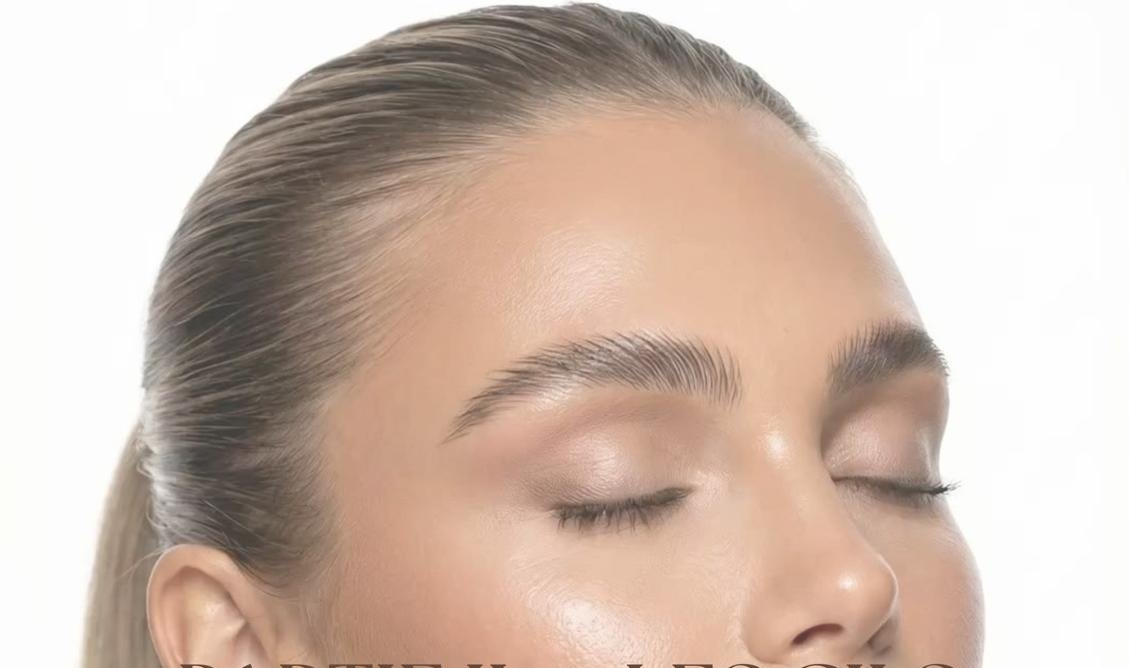
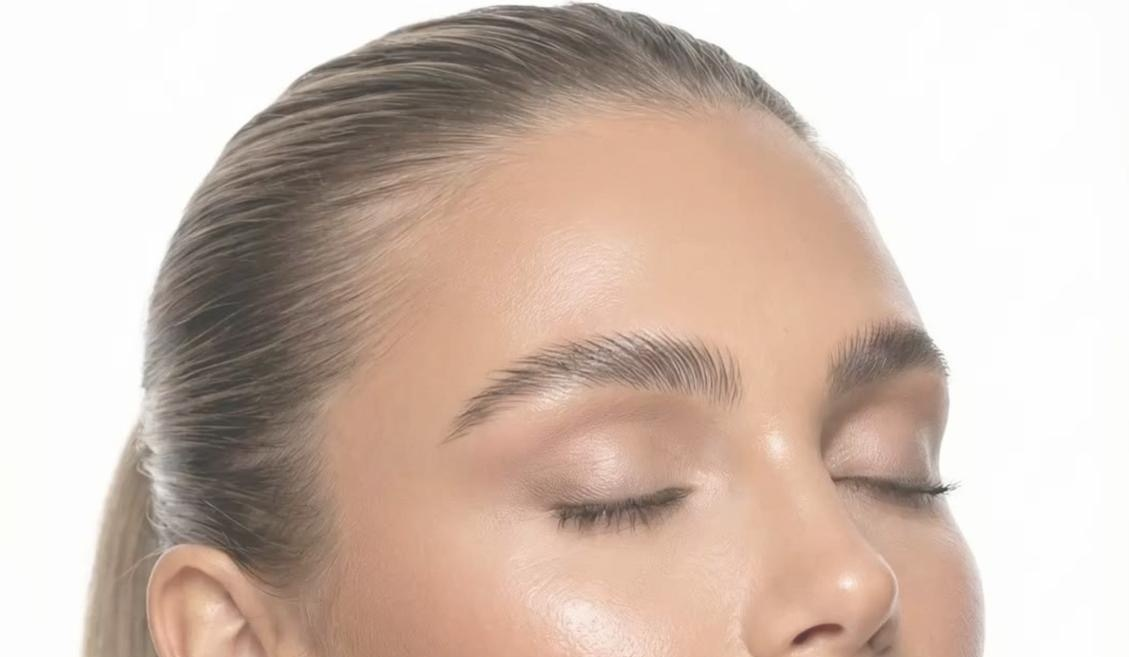
Sommaire et recadrage des portraits d'ouverture
Claude-Session: https://claude.ai/code/session_01RxScfj6N3DU6S5JvneTwhT

diff --git a/design/pages/020-sommaire.html b/design/pages/020-sommaire.html
@@ -1,0 +1,80 @@
+<style>
+  [data-id="sommaire"] .layout { position: absolute; inset: 0; display: grid; grid-template-columns: 96mm 1fr; }
+  [data-id="sommaire"] .side {
+    position: relative; background: var(--cream); padding: 30mm 12mm 16mm 20mm; overflow: hidden;
+  }
+  [data-id="sommaire"] .side .h-display { font-size: 36pt; margin: 6mm 0 6mm; }
+  [data-id="sommaire"] .side .lead { font-size: 14pt; max-width: 64mm; }
+  [data-id="sommaire"] .col > .part + .part { margin-top: 10mm; }
+  [data-id="sommaire"] .side .arch {
+    position: absolute; left: 20mm; bottom: 32mm; width: 58mm; height: 72mm;
+    border-radius: 29mm 29mm 0 0; overflow: hidden; background: var(--paper);
+  }
+  [data-id="sommaire"] .side .arch img { width: 100%; height: 100%; object-fit: cover; object-position: 58% 40%; }
+  [data-id="sommaire"] .side .logo { position: absolute; left: 20mm; bottom: 16mm; width: 46mm; opacity: .85; }
+  [data-id="sommaire"] .parts {
+    padding: 30mm 20mm 18mm 16mm; display: grid; grid-template-columns: 1fr 1fr; column-gap: 14mm;
+    align-content: start;
+  }
+  [data-id="sommaire"] .part-head {
+    display: flex; align-items: baseline; gap: 3mm; padding-bottom: 2.4mm; margin-bottom: 1.6mm;
+    border-bottom: .3mm solid var(--espresso);
+  }
+  [data-id="sommaire"] .part-head .roman {
+    font-family: var(--display); font-style: italic; font-size: 24pt; line-height: 1; color: var(--bordeaux);
+    min-width: 11mm;
+  }
+  [data-id="sommaire"] .part-head .name {
+    font-family: var(--display); font-size: 12.5pt; text-transform: uppercase; letter-spacing: .04em; color: var(--espresso);
+    flex: 1;
+  }
+  [data-id="sommaire"] .part-head .pg,
+  [data-id="sommaire"] .entry .pg {
+    font-family: var(--display); font-style: italic; font-size: 10pt; color: var(--bordeaux);
+  }
+  [data-id="sommaire"] .entry {
+    display: flex; align-items: baseline; gap: 2mm; padding: 2.1mm 0; font-size: 9.6pt; color: var(--ink);
+  }
+  [data-id="sommaire"] .entry .dots { flex: 1; border-bottom: .25mm dotted var(--taupe); transform: translateY(-1mm); }
+</style>
+<section class="page" data-id="sommaire">
+  <div class="layout">
+    <div class="side">
+      <div class="kicker">Support pédagogique</div>
+      <h2 class="h-display">Sommaire</h2>
+      <p class="lead">Parcours de formation : les sourcils, puis les cils et le développement professionnel</p>
+      <div class="arch"><img class="blend" src="assets/portrait-regard-haut-chaud.jpg" alt=""></div>
+      <img class="logo" src="assets/logo-dolce.png" alt="dolce lash &amp; brow">
+    </div>
+    <div class="parts">
+      <div class="col">
+      <div class="part">
+        <div class="part-head"><span class="roman">I.</span><span class="name">Sourcils</span><span class="pg">{{p:partie-1}}</span></div>
+        <div class="entry">Anatomie et cycle de vie du poil<span class="dots"></span><span class="pg">{{p:cycle}}</span></div>
+        <div class="entry">Pourquoi les sourcils tombent-ils&nbsp;?<span class="dots"></span><span class="pg">{{p:chute}}</span></div>
+        <div class="entry">Diagnostic et application en cabine<span class="dots"></span><span class="pg">{{p:diagnostic}}</span></div>
+        <div class="entry">Restructuration et mapping<span class="dots"></span><span class="pg">{{p:mapping}}</span></div>
+        <div class="entry">Brow Lift&nbsp;: technique et temps de pose<span class="dots"></span><span class="pg">{{p:browlift}}</span></div>
+        <div class="entry">Teinture hybride et décoloration<span class="dots"></span><span class="pg">{{p:teinture}}</span></div>
+        <div class="entry">Atelier visuel Brow Lift et sécurité<span class="dots"></span><span class="pg">{{p:atelier}}</span></div>
+      </div>
+      </div>
+      <div class="col">
+      <div class="part">
+        <div class="part-head"><span class="roman">II.</span><span class="name">Cils</span><span class="pg">{{p:partie-2}}</span></div>
+        <div class="entry">Diagnostic, rehaussement de cils, teinture et Lash Botox<span class="dots"></span><span class="pg">{{p:rehaussement}}</span></div>
+      </div>
+      <div class="part">
+        <div class="part-head"><span class="roman">III.</span><span class="name">Pratique professionnelle</span><span class="pg">{{p:partie-3}}</span></div>
+        <div class="entry">Fiches pratiques et suivi des clientes<span class="dots"></span><span class="pg">{{p:fiche-technique}}</span></div>
+        <div class="entry">Réseaux sociaux et communication<span class="dots"></span><span class="pg">{{p:reseaux}}</span></div>
+        <div class="entry">Gestion d’activité et fidélisation<span class="dots"></span><span class="pg">{{p:gestion}}</span></div>
+      </div>
+      <div class="part">
+        <div class="part-head"><span class="roman">IV.</span><span class="name">Évaluation</span><span class="pg">{{p:partie-4}}</span></div>
+        <div class="entry">Questionnaire de connaissances et références<span class="dots"></span><span class="pg">{{p:qcm}}</span></div>
+      </div>
+      </div>
+    </div>
+  </div>
+</section>

diff --git a/contenu/transcription/atelier-visuel-brow-lift.md b/contenu/transcription/atelier-visuel-brow-lift.md
@@ -2,13 +2,13 @@
 
 > en-tête/pied : pas d'en-tête ; pied de page en bas à gauche « DOLCE LASH & BROW  •  Support pédagogique » (gris-brun ≈ #6C6060, graisse normale, séparateur puce « • » entouré d'espaces), position approx. (6%, 96,4%, 28,5%, 97,3%). Pas de numéro de page.
 
-[VISUEL: photo de fond pleine page — fond studio gris rosé clair (≈ #DED9D6 en haut, ≈ #EBE6E3 en bas) ; grand sac shopping en papier rose poudré traversé d'un ruban satin bordeaux (anse en « V » qui descend puis remonte vers le haut-droite) ; à droite, une paire de jambes (peau mate/foncée) en l'air, pieds chaussés d'escarpins vernis noirs à talons aiguilles, comme une personne allongée derrière le sac ; rôle : photo d'ambiance / mise en scène mode (même photo que sur les pages « Le cycle de vie du sourcil » et « Pourquoi les sourcils tombent-ils ? ») ; position approx. photo (0%, 0%, 100%, 100%), partie visible du sac (10%, 71,7%, 69%, 87%) — tout le haut du sac est caché sous la bande de photos de sourcils —, jambes et escarpins (68%, 62%, 98%, 84%) ; texte imprimé SUR le sac (décor photo, non transcrit dans le corps) : seule la fin du mot « regard » de « Beauté du regard » est visible (lettres serif bordeaux « …gard » disposées verticalement, rotation 90°, le long du bord gauche du sac), x ≈ 14,5–28 %, y ≈ 72–85 %, et le logo « dolcelash&brow » (serif espacé, rose-brun pâle) en bas du sac, x ≈ 35,5–49,5 %, y ≈ 84,3–85,1 %, coincé entre la 3ᵉ et la 4ᵉ puce ; les 3 premières puces sont écrites directement par-dessus les lettres « …gard » et le ruban bordeaux ; aucun crédit photo / @compte visible sur cette photo de fond]
+[VISUEL: photo de fond pleine page — fond studio gris rosé clair (≈ #DED9D6 en haut, ≈ #EBE6E3 en bas) ; grand sac shopping en papier rose poudré traversé d'un ruban satin bordeaux (anse en « V » qui descend puis remonte vers le haut-droite) ; à droite, une paire de jambes (peau mate/foncée) en l'air, pieds chaussés d'escarpins vernis noirs à talons aiguilles, comme une personne allongée derrière le sac ; rôle : photo d'ambiance / mise en scène mode (même photo que sur les pages « Le cycle de vie du sourcil » et « Pourquoi les sourcils tombent-ils ? ») ; position approx. photo (0%, 0%, 100%, 100%), partie visible du sac (10%, 71,7%, 69%, 87%) — tout le haut du sac est caché sous la bande de photos de sourcils —, jambes et escarpins (68%, 62%, 98%, 84%) ; texte imprimé SUR le sac (décor photo, non transcrit dans le corps) : seule la fin du mot « regard » de « Beauté du regard » est visible (lettres serif bordeaux « …gard », précédées d'un fragment du « e » coupé par le bord inférieur du montage photo, disposées verticalement, rotation 90°, le long du bord gauche du sac), x ≈ 14,5–28 %, y ≈ 72–85 %, et le logo « dolcelash&brow » (serif espacé, rose-brun pâle) en bas du sac, x ≈ 35,5–49,5 %, y ≈ 84,3–85,1 %, coincé entre la 3ᵉ et la 4ᵉ puce ; les 3 premières puces sont écrites directement par-dessus les lettres « …gard » et le ruban bordeaux ; aucun crédit photo / @compte visible sur cette photo de fond]
 
 # ATELIER VISUEL — BROW LIFT
 
 Lecture du résultat : la photographie ci-dessous montre trois présentations de sourcils. Elle permet de discuter de l’orientation des poils, du volume apparent, de la définition de la ligne et du rendu final. Les images ne constituent pas un protocole de pose.
 
-[VISUEL: montage photo de 3 gros plans de sourcils empilés verticalement sans marge entre eux (même sourcil gauche, même cadrage, tissu/cheveux sombres visibles dans le coin supérieur gauche de chaque vue) — rôle : photos pédagogiques avant/après de Brow Lift (comparaison de 3 rendus) ; position approx. du bloc (9,1%, 24,1%, 75,5%, 71,7%) ; vue 1 (9,1%, 24,1%, 75,5%, 39,7%) : sourcil naturel non traité, poils fins orientés vers l'extérieur, un peu clairsemés et désordonnés, queue ébouriffée ; vue 2 (9,1%, 39,7%, 75,5%, 55,9%) : poils brossés vers le haut et l'extérieur, aspect laqué/brillant (effet lifté, probablement juste après la pose), plus de volume au centre ; vue 3 (9,1%, 55,9%, 75,5%, 71,7%) : rendu final structuré, poils lissés et alignés en éventail vers le haut, ligne inférieure très nette, peau rosée (après restructuration/épilation du contour) ; aucun texte pédagogique dans l'image ; FILIGRANE / CRÉDIT TIERS visible sur la vue 3, en blanc semi-transparent au-dessus de la tête du sourcil : « @refreshed…refined » [?] (lecture probable « @refreshedandrefined » ou « @refreshedinrefined », la fin est en partie masquée par les poils), x ≈ 35–51 %, y ≈ 58–60,5 % ; les vues 1 et 2 ne portent pas de filigrane visible]
+[VISUEL: montage photo de 3 gros plans de sourcils empilés verticalement sans marge entre eux (même sourcil gauche, même cadrage, tissu/cheveux sombres visibles dans le coin supérieur gauche de chaque vue) — rôle : photos pédagogiques avant/après de Brow Lift (comparaison de 3 rendus) ; position approx. du bloc (9,1%, 24,1%, 75,5%, 71,7%) ; vue 1 (9,1%, 24,1%, 75,5%, 39,7%) : sourcil naturel non traité, poils fins orientés vers l'extérieur, un peu clairsemés et désordonnés, queue ébouriffée ; vue 2 (9,1%, 39,7%, 75,5%, 55,9%) : poils brossés vers le haut et l'extérieur, aspect laqué/brillant (effet lifté, probablement juste après la pose), plus de volume au centre ; vue 3 (9,1%, 55,9%, 75,5%, 71,7%) : rendu final structuré, poils lissés et alignés en éventail vers le haut, ligne inférieure très nette, peau rosée (après restructuration/épilation du contour) ; aucun texte pédagogique dans l'image ; FILIGRANE / CRÉDIT TIERS visible sur la vue 3, en blanc semi-transparent au-dessus de la tête du sourcil : « @refreshedinrefined » [?] (relu en zoom x4 à x9 à fort contraste : « @refreshed », puis « in », puis « refined » ; entre « refreshed » et « refined » il n'y a la place que d'environ 1,5 lettre, ce qui rend « @refreshedandrefined » peu probable ; les dernières lettres « …ed » sont en partie masquées par les poils, d'où le [?]), x ≈ 35–51 %, y ≈ 58–60,5 % ; les vues 1 et 2 ne portent pas de filigrane visible]
 
 - Décrire le sens d’implantation et le sens de brossage sur chacune des trois images.
 - Repérer les zones où les poils se croisent, les espaces clairsemés et les contours à respecter.
@@ -21,7 +21,7 @@ Lecture du résultat : la photographie ci-dessous montre trois présentations de
 - Les puces d'origine sont des « • » (rendues ici en liste Markdown « - ») ; chaque puce est un paragraphe séparé, sans ponctuation finale différente (toutes finissent par « . »).
 - Apostrophes typographiques « ’ » dans le texte d'origine (l’orientation, d’implantation), conservées.
 - Hiérarchie : titre « ATELIER VISUEL — BROW LIFT » en capitales grasses brunes (≈ #5C4C48), tiret cadratin « — » ; paragraphe d'introduction en texte courant noir ; liste à puces en texte courant noir. Pas d'intertitre.
-- **Droits / crédit photo à vérifier** : la 3ᵉ photo porte le filigrane d'un compte Instagram tiers (« @refreshed…refined »). C'est vraisemblablement le travail d'une autre professionnelle, alors que la page « Photographier son travail » du même manuel dit « ne jamais présenter comme sien le travail d’une autre professionnelle ». À signaler à la cliente : obtenir l'autorisation et créditer la source, ou remplacer par ses propres photos avant/après.
+- **Droits / crédit photo à vérifier** : la 3ᵉ photo porte le filigrane d'un compte Instagram tiers (« @refreshedinrefined » [?]). C'est vraisemblablement le travail d'une autre professionnelle, alors que la page « Photographier son travail » du même manuel dit « ne jamais présenter comme sien le travail d’une autre professionnelle ». À signaler à la cliente : obtenir l'autorisation et créditer la source, ou remplacer par ses propres photos avant/après.
 - Le texte annonce « trois présentations de sourcils » : cohérent avec les 3 vues du montage. Les vues ne sont pas légendées (pas de « avant / pendant / après » ni de numéros) alors que la 1ʳᵉ puce demande de travailler « sur chacune des trois images » : prévoir des légendes (1, 2, 3 ou « naturel / discipliné / structuré ») lors du redesign.
-- Pied de page « Support pédagogique » ici, alors que d'autres pages (« Le cycle de vie du sourcil », « Pourquoi les sourcils tombent-ils ? ») ont « Manuel de formation » : incohérence de pied de page entre pages. Pas d'en-tête sur cette page, contrairement à ces deux pages.
+- Pied de page « Support pédagogique » ici, alors que d'autres pages (« Le cycle de vie du sourcil », « Pourquoi les sourcils tombent-ils ? ») ont « Manuel de formation », et d'autres encore « Support de formation » (« 4. Décoloration des sourcils », « Sources et vérification des protocoles ») : trois libellés de pied de page différents à harmoniser. Pas d'en-tête sur cette page, contrairement à ces deux pages.
 - Lisibilité : les 3 premières puces traversent les grandes lettres bordeaux du sac et le ruban (mots « sens », « des », « zones où les », « contours », « respecter », « la cliente la » chevauchés) ; contraste faible à ces endroits. Le logo « dolcelash&brow » du sac s'intercale entre la 3ᵉ et la 4ᵉ puce. Grand vide entre l'introduction et le montage photo (≈ 17 % → 24 % de la page). À recomposer lors du redesign (texte sur fond uni).

diff --git a/contenu/transcription/photographier-reseaux-sociaux.md b/contenu/transcription/photographier-reseaux-sociaux.md
@@ -40,10 +40,10 @@ Choisir un nom cohérent, une photo de profil lisible, une palette de couleurs e
 
 - Aucune coquille repérée ; aucun mot incertain (tout relu en zoom x2). Apostrophes typographiques « ’ » conservées (l’objectif, d’une, l’hygiène, d’un, d’expérience).
 - La page contient **deux titres de niveau 1** dans le même style (capitales grasses brunes ≈ #584848) : « PHOTOGRAPHIER SON TRAVAIL » (haut de page) et « DÉVELOPPER SON ACTIVITÉ SUR LES RÉSEAUX SOCIAUX » (y ≈ 28–29,5 %). Deux sections distinctes du manuel sur une même page ; à séparer ou à relier visuellement lors du redesign (« Photographier son travail » sert de transition vers les réseaux sociaux).
-- Intertitres en gras brun, casse normale : « Une méthode cohérente pour les avant/après » (non numéroté), puis « 1. », « 2. », « 3. » pour la section réseaux sociaux (numérotation propre à cette section, qui repart à 1 — à ne pas confondre avec la numérotation 5–8 de la Partie II).
+- Intertitres en gras brun, casse normale : « Une méthode cohérente pour les avant/après » (non numéroté), puis « 1. », « 2. », « 3. » pour la section réseaux sociaux (numérotation propre à cette section, qui repart à 1 — à ne pas confondre avec la numérotation 5–8 de la Partie II). Attention : la page « Gestion d’activité et fidélisation » (gestion-activite-fidelisation.md) repart elle aussi à « 1. Réaliser un Reel efficace », puis 2, 3 et 5, avec des sujets de réseaux sociaux : les deux séries 1–3 se chevauchent et seront à renuméroter ensemble lors du redesign.
 - Puces d'origine « • » (rendues en liste Markdown « - ») ; « 1. Construire une identité professionnelle » est un paragraphe continu (retours à la ligne automatiques), pas une liste.
 - Dans « Stories à la une : Tarifs, Résultats, Avis, FAQ, Accès, Disponibilités. », les 6 noms de stories commencent par une majuscule (noms de « highlights » Instagram) : conservé.
 - Le titre « 3. Les cinq piliers de contenu » est cohérent avec le tableau : 5 piliers (Résultats, Éducation, Confiance, Preuve sociale, Conversion).
 - Tableau d'origine sans bordures ni fond : 2 colonnes (Pilier à x ≈ 7,6 %, Idées de publications à x ≈ 29,5 %), ligne d'en-tête « Pilier / Idées de publications » dans le même style que les lignes (non graissée), corps plus petit que le texte courant.
-- Le 4ᵉ point de « Photographier son travail » (« ne jamais présenter comme sien le travail d’une autre professionnelle ») est en contradiction avec la page « Atelier visuel — Brow Lift », dont la 3ᵉ photo porte le filigrane d'un compte tiers (« @refreshed…refined ») : à signaler à la cliente.
+- Le 4ᵉ point de « Photographier son travail » (« ne jamais présenter comme sien le travail d’une autre professionnelle ») est en contradiction avec la page « Atelier visuel — Brow Lift », dont la 3ᵉ photo porte le filigrane d'un compte tiers (« @refreshedinrefined » [?]) : à signaler à la cliente.
 - Mise en page : grands blancs entre les blocs (≈ 21 % → 28 % et ≈ 52 % → 62 % de la page) et bas de page vide de ≈ 80 % à 96 %.

diff --git a/contenu/transcription/partie-2-cils-contenu.md b/contenu/transcription/partie-2-cils-contenu.md
@@ -1,6 +1,6 @@
 <!-- source: 402cd44e-image.jpg -->
 
-> en-tête/pied : aucun (pas d'en-tête, pas de pied de page, pas de numéro de page sur cette page — contrairement aux autres pages de contenu).
+> en-tête/pied : aucun (pas d'en-tête, pas de pied de page, pas de numéro de page sur cette page — contrairement à la plupart des autres pages de contenu ; les deux pages du QCM n'en ont pas non plus ; vérifié : bas de page entièrement blanc).
 
 [VISUEL: aucun — page entièrement typographique sur fond blanc (#FFFFFF), sans photo, pictogramme, filigrane ni cadre (vérifié : aucun pixel coloré sur la page)]
 
@@ -45,7 +45,7 @@ Expliquer les recommandations après soin prévues par les fabricants et remettr
 - Tableau d'origine sans bordures ni fond : ligne d'en-tête « Étape / Produit / Temps de pose » en gris clair (≈ #808080), lignes en noir dans le corps du texte courant ; colonnes à x ≈ 10 %, 25 %, 69,5 %. « Selon notice du / soin » est sur deux lignes (retour automatique).
 - « Ordre des étapes enseigné : » est en gras noir (pseudo-intertitre), non numéroté.
 - Hiérarchie : « PARTIE II — LES CILS » est en capitales **non grasses** (graisse légère, brun ≈ #584840), contrairement aux titres de page des autres pages de contenu (capitales grasses) ; intertitres numérotés « 5. », « 6. », « 7. », « 8. » en brun, graisse normale, casse normale ; « Conseils après prestation » est un intertitre du même style mais **non numéroté** (on attendrait « 9. »).
-- **Numérotation** : la Partie II commence à « 5. » — suite logique de la numérotation de la Partie I (sections 1 à 4 supposées), à vérifier avec le sommaire. Le « Step 1.5 » apparaît à la fois comme étape du tableau (section 6) et comme section dédiée (section 8).
+- **Numérotation** : la Partie II commence à « 5. » — suite logique de la numérotation de la Partie I (sections 1 à 4 supposées : « 1. RESTRUCTURATION DES SOURCILS & MAPPING » et « 4. Décoloration des sourcils » sont transcrites sur d'autres pages, 2 et 3 ne sont pas encore vues), à vérifier avec le sommaire. Le « Step 1.5 » apparaît à la fois comme étape du tableau (section 6) et comme section dédiée (section 8).
 - Alignement gauche incohérent : sections 5 et 6 à x ≈ 7,9 %, sections 7, 8 et « Conseils » à x ≈ 7,3 %, note « Important » à x ≈ 7 %.
 - Cette page reprend en titre « PARTIE II — LES CILS » alors qu'il existe déjà une page d'ouverture (intercalaire photo) avec le même titre : doublon à arbitrer lors du redesign (garder le titre sur l'intercalaire, ou commencer cette page directement par « 5. Diagnostic avant rehaussement »).
-- Pas de pied de page ni d'en-tête sur cette page (les autres pages de contenu ont « DOLCE LASH & BROW • … »).
+- Pas de pied de page ni d'en-tête sur cette page (la plupart des autres pages de contenu ont « DOLCE LASH & BROW • … » ; seules les pages du QCM et les pages d'ouverture n'en ont pas non plus).
